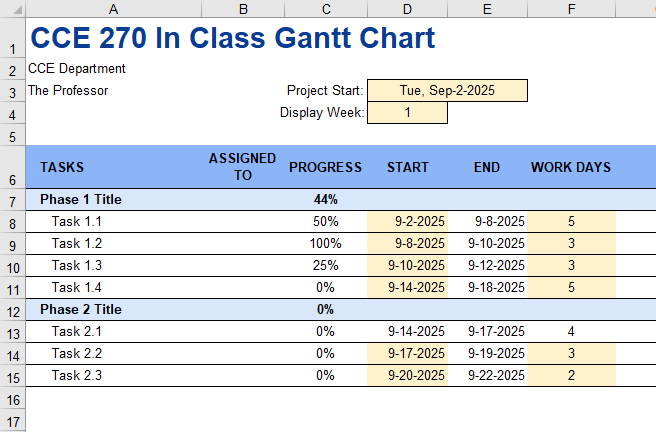
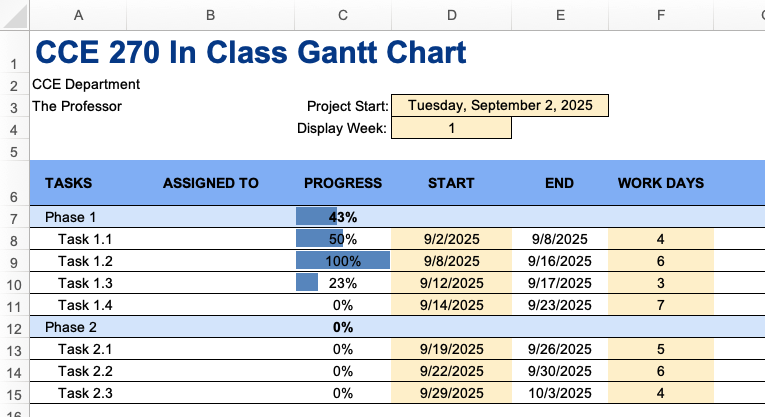
General cleanup of Gantt chart in-class. Also fixed HW.

diff --git a/docs/unit1/5_gantt_charts/gantt_class.md b/docs/unit1/5_gantt_charts/gantt_class.md
@@ -7,8 +7,8 @@ We will use  seven main steps to create a Gantt chart in Excel.
 1. Project Information, Phases, and Tasks 
 2. Creating the Timeline 
 3. Applying Formatting 
-4. Adding Progress Bars for Tasks on Timeline 
-5. Making the Timeline Dynamic 
+4. Making the Timeline Dynamic 
+5. Adding Progress Bars for Tasks on Timeline
 6. Adding Summary Progress Bars 
 7. Summary Duration and Grouping 
 
@@ -35,7 +35,8 @@ First, you will need to enter the following information:
 1. Enter a name for your project in cell A1.
 2. Enter your company name in cell A2.
 3. Enter your name as the project manager in cell A3.
-4. Enter a date in cell C3 for the project start date. This should be the next time you have class. Also name this cell "project_start" (We will be using this name in formulas later).
+4. Enter a date in cell D3 for the project start date. This should be the next time you have class. Also name this 
+   cell "project_start" (We will be using this name in formulas later).
 * remember, cell or range names should not have spaces in them.
 
 ### Phases and Tasks
@@ -88,10 +89,7 @@ Finish this step by adding your  your own start dates for all the tasks you ente
 12. Change the formatting of the chart to make it look more professional. You can fill the header row (row 6) with a 
     color, indent the task and phase names, and add some borders to the table. You can put boarders around  and 
     highlight the 
-    project start date, work days, and start dates to help indicate that it is something to be filled in. You don't have to use the same colors as shown in our pictures. 
-13. Select column B and insert a new column to the left. This will become the new column B.
-14. In cell the new cell B6, enter "ASSIGNED TO". This is where you can enter the person responsible for each task.
-15. Adjust the column widths as needed to fit the new column.
+    project start date, work days, and start dates to help indicate that it is something to be filled in. You don't have to use the same colors as shown in our pictures.
 
 At this point, your Gantt chart should look something like this:
 
@@ -140,22 +138,12 @@ At this point, your Gantt chart should look something like this:
 
 ![gantt_step2.png](images/gantt_step2.png)
 
----
 
-## Step 3 - Adding Progress Bars for Tasks on Timeline
+## Step 3 - Making the Timeline Dynamic
 
-In this step, you will add progress bars to the Gantt chart to show the progress of each task. This will consist of a color bar covering the dates associated with each task. We could add this manually, but there is a way to have it automatically update using conditional formatting.
-
-1. Select all of the cells below the timeline where we want to put the progress bars (H7:AI15).
-2. Add a conditional formatting rule to fill the cell with a color if the date in the cell is greater than or equal to the start date of the task and less than or equal to the end date of the task. Use the "Custom formula is" option for the conditional formatting rule. Then enter a formula as if you were in the upper left cell of the range. Use the AND() function to check if the date is greater than or equal to the start date and less than or equal to the end date. Use absolute references for the row and relative references for the column. Pick a color for the fill.
-
-![gantt_step3.png](images/gantt_step3.png)
-
----
-
-## Step 4 - Making the Timeline Dynamic
-
-In this step, you will make the timeline dynamic so that it always starts on a Monday. This will ensure that the formatting of the Gantt chart is consistent. We will also highlight the current day on the timeline.
+In this step, you will make the timeline dynamic so that it always starts on a Monday. This will ensure that the 
+formatting of the Gantt chart is consistent. We will also highlight the current day on the timeline. We will use 
+conditional formatting to highlight the current day on the timeline. 
 
 Notice that the first week always starts on the project start date. But it would be more convenient if each of the weeks started on a Monday. We will add a formula to make this happen.
 ### Starting the Week on a Monday
@@ -176,15 +164,16 @@ Next, we will add a new control that lets us display the week we want to see. Th
 5. Change the formatting of cells C4 and D4 to make them match the formatting of the project start date (cells C3 and D3). Make sure D4 is formatted as a number and not a date. 
 6. Name the cell D4 "display_week".
 7. In cell H5, edit the formula you edited above to add "+(display_week-1)*7" to the end of the formula. This will  allow you to change the display week and see the subsequent weeks of the project. 
-8Try entering different numbers in cell D4 to see how the display week changes.
+8. Try entering different numbers in cell D4 to see how the display week changes.
 
-### Add Gantt Bars using Conditional Formatting
-Next, we will use conditional formatting to highlight the current day on the timeline.
+## Step 4 - Add Gantt Bars using Conditional Formatting
 
-9. Select cells H5:AI15.
-10. Click on Format|Conditional formatting and Select "New Rule"
-11. In the Conditional format rules pane, select "Use a formula to determine which cell to format" from the dropdown.
-12. We want to rule to format the cell if the date at the top of the column is between the start and end dates for 
+Next, we will use conditional formatting to add Gantt bars one the timeline.
+
+1. Select cells H5:AI15.
+2. Click on Format|Conditional formatting and Select "New Rule"
+3. In the Conditional format rules pane, select "Use a formula to determine which cell to format" from the dropdown.
+4. We want to rule to format the cell if the date at the top of the column is between the start and end dates for 
     the task in that row. We will need to use a logical AND function to check if the date is greater than or equal to the start date and less than or equal to the end date. The formula will be entered as if you were in the upper left cell of the range. Use absolute references for the row and relative references for the column.
 
     Enter the following formula:
@@ -196,7 +185,11 @@ This rule look at the date in row 5 of the current column (H\$5) and checks if i
 Make sure the cells in the Phase rows are blank. Highlight htme and delete if this row is getting highligted in the 
 Gannt chart.
 
-12. Add another rule and have the formatting add side borders to the cells in the current day row. You should check 
+### Highlight the Current Day
+
+Next, we will add conditional formatting to highlight the current day on the timeline.
+
+5. Add another rule and have the formatting add side borders to the cells in the current day row. You should check 
     to see if the date in row 5 of the current column is equal to today's date. Use the TODAY() function to get today's date. The formula will be entered as if you were in the upper left cell of the range. Use absolute references for the row and relative references for the column.
 
 If you want, you can also change the fill color of the cell to make it stand out more or just highlight the date in the header rows.
@@ -217,8 +210,7 @@ In this step, you will add progress bars to the Gantt chart to show the progress
 1. Select C7:C15 (The progress column), set the number format to "Percent". For testing purposes, enter some sample percentages for the progress of each task in cells C8:C11 and C13:C15. Leave a few of them blank or 0 to indicate they have not started yet.
 2. Reselect C7:C15 and add conditional formatting using "Data Bars". Choose a color, like gray for the data bar. You can choose a different color than gray if you like.
 3. Make Column C wider so you can see the data bars better.
-4In the cells that have the Phase titles (cells C7 and C12 in the figures), use the average function to calculate    
-   the  average percent complete for each phase base on the tasks in that phase.
+4. In the cells that have the Phase titles (cells C7 and C12 in the figures), use the average function to calculate the  average percent complete for each phase base on the tasks in that phase.
 
 ### More Formatting
 4. Highlight each phase in the timeline and  bold the data in that row to make it stand out 
@@ -228,40 +220,10 @@ Your chart should now look something like this:
 
 ![gantt_step5-1.png](images/gantt_step5-1.png)
 
-### Grey Out Past Dates
-Next, we will conditionally format the timeline to gray out the dates that are past the current date based on the percent complete for each task.
-
-To help with this, we are going to add relative name ranges. This would be like naming an entire column or row and 
-so we can  use that name in a formula.
-
-5. To do this, select C7 (the top data cell in the progress column) and then click on the "Formulas" tab. Then click on 
-   "Define Name". In the dialog box, enter 
-   "task_progress" for the name. Make sure the "Refers to" box contains the following formula: =Sheet1!\$C7. Then 
-   click OK. This will create a relative name range that you can use in conditional formatting. _note that the 
-   column is fixed and the row is relative._
-6. Do the same thing for the start and end dates. Use the names "task_start" and "task_end" for the start and end dates.
-7. Select H7:AI15. Add a new conditional formatting rule using "Custom formula is" and enter the following formula:
-```
-=1*AND(H$5>=task_start,H$5<=task_start+(task_progress*(task_end-task_start+1))-1)
-```
-Make sure you set a format for these cells. 
-
-What this formula does is check if the date in row 5 of the current column (H\$5) is greater than or equal to the 
-start date of the task (task_start) and less than or equal to the start date plus the number of days that have been 
-completed based on the percentage complete (task_progress). The multiplication by 1 at the beginning of the formula 
-is used to convert the TRUE/FALSE result of the AND function into a 1/0 value that can be used for conditional 
-formatting. The video on the reading page explains this in more detail.
-
-8. Set the formatting to fill the cell with a light gray color.
-9. Try entering different percentages in column C to see how the timeline changes.
-
-Your chart should now look something like this:
-
-![gantt_step5-2.png](images/gantt_step5-2.png)
 
 ---
 
-## Step 6 - Summary Duration and Grouping
+## Step 6 - Phase Summary Duration 
 
 In this step, you will add a summary duration for each phase of the project and you will group the tasks into phases so they can be hidden or expanded as needed.
 
@@ -276,16 +238,9 @@ Note that when you finish entering these two formulas, you will see an overall t
 4. Open the conditional formatting rules manager and edit the rule you created in Step 3 above. Change the formula 
    to the following:
 ```
-=AND(task_start<>"",H$5>=$D7,H$5<=$E7,$F7<>"")
+=AND($F7<>"",H$5>=$D7,H$5<=$E7,$F7<>"")
 ```
 This formula now also look to see if a number has been entered in the "Work Days" column. If there is no number, then the conditional formatting will not be applied. This way, the summary bars will only show if there is a number in the "Work Days" column.
-5. Once again, open the conditional formatting rules manager and edit the rule you created in  Step 5 above. Change 
-   the formula to the following:
-```
-=1*AND(H$5>=task_start,$F7<>"",H$5<=task_start+(task_progress*(task_end-task_start+1))-1)
-```
-
-Now the conditional formatting will only apply if there is a number in the "Work Days" column.
 
 Your chart should now look something like this:
 
@@ -295,14 +250,15 @@ Congratulations. You did it! There are many more features you could add to this 
 
 ---
 
-## Step 7 - Bonus - Highlighting Weekends
+## Step 7 - Highlighting Weekends
 
 1. Select H5:AI15.
 2. Add a new conditional formatting rule using "Custom formula is" and enter the following formula
 ```
 =NETWORKDAYS(H$5,H$5)=0
 ```
-3. Set the formatting to a pattern color, not a fill patter to a light color of your choice. Also select a hatched pattern to make it stand out more.
+3. Set the formatting to a pattern color (not a fill pattern) to a light color of your choice. Also select a hatched 
+   pattern to make it stand out more.
 
 Your chart should now look something like this with the hatched pattern being on top of any previous formatting. If not, you can change the order of the conditional formatting rules in the manager or check your setting for your pattern color and fill color for your new rule.
 
